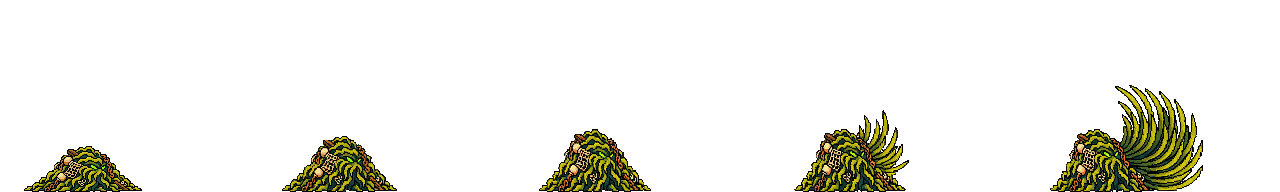
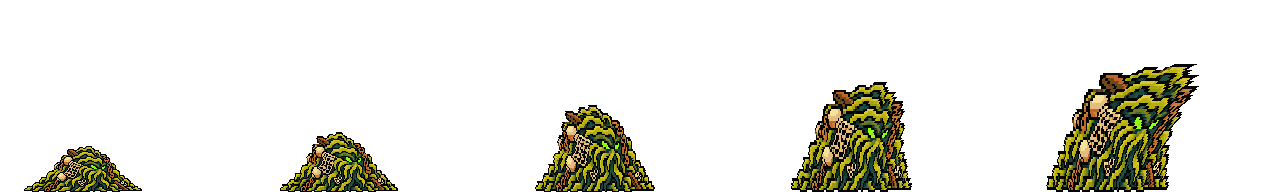
Sargathoth S1: rebuild Undertow as a breaking wave (rise, curl, crash) with a procedural strip tool
Claude-Session: https://claude.ai/code/session_01SJ9dCuwxi3nGmvpTpAhwdV

diff --git a/src/presentation.ts b/src/presentation.ts
@@ -940,7 +940,7 @@ export const SPRITES:Record<string,Form&{stages?:Record<number,Form>}>={
  'Sargathoth':{width:120,anims:{idle:{src:'assets/sargathoth-s1-idle.png',frames:8,fps:8,...SG1_NATIVE},walk:{src:'assets/sargathoth-s1-walk.png',frames:8,fps:10,...SG1_NATIVE},
   light1:{src:'assets/sargathoth-s1-light1.png',frames:8,fps:24,once:true,...SG1_LEFT},light2:{src:'assets/sargathoth-s1-light2.png',frames:8,fps:21,once:true,...SG1_LEFT},
   light3:{src:'assets/sargathoth-s1-light3.png',frames:8,fps:20,once:true,...SG1_LEFT},
-  // Undertow (heavy): the mound heaves up with a fan of fronds bunched on its right side, shudders while held, then slams down and throws debris.
+  // Undertow (heavy): the mound swells into a tall column whose crest curls forward (tools/sargathoth_s1_heavy.py), trembles while held, then topples and crashes flat like a breaking wave, spraying debris.
   heavyRear:{src:'assets/sargathoth-s1-heavy-rear.png',frames:5,fps:20,once:true,...SG1_LEFT},heavyHold:{src:'assets/sargathoth-s1-heavy-hold.png',frames:4,fps:10,...SG1_LEFT},
   heavySlam:{src:'assets/sargathoth-s1-heavy-slam.png',frames:9,fps:18,once:true,...SG1_LEFT}}},
 };

diff --git a/tools/sargathoth_s1_heavy.py b/tools/sargathoth_s1_heavy.py
@@ -1,0 +1,58 @@
+#!/usr/bin/env python3
+"""Build Sargathoth Stage 1's Undertow heavy strips (rear, hold, slam) as a breaking wave. Procedural like tools/sargathoth_s1_anim.py:
+every frame is an inverse-mapped nearest-neighbour warp of the halved base, so the palette and pixel grid never change.
+
+Usage: python3 -I tools/sargathoth_s1_heavy.py public/assets/sargathoth-s1.png out-dir [preview.gif]
+Writes out-dir/sargathoth-s1-heavy-{rear,hold,slam}.png (256x192 frames, 118px mound at x=24, feet on row 191: the SG1_LEFT layout).
+  rear: draws back (top leans left), then swells up into a tall column whose crest curls forward.
+  hold: the cresting wave hangs and trembles.
+  slam: the crest topples forward and crashes flat, spreading along the street, then rebounds and settles; debris sprays out.
+"""
+import sys, random, numpy as np
+from PIL import Image
+src, out = sys.argv[1], sys.argv[2]; FW, FH, W, X0 = 256, 192, 118, 24
+b = Image.open(src).convert('RGBA'); b = b.crop(b.getchannel('A').getbbox()); H0 = round(b.height * W / b.width)
+b = b.resize((W, H0), Image.NEAREST); base = np.zeros((FH, FW, 4), np.uint8); base[FH - H0:, X0:X0 + W] = np.asarray(b)
+solid = base[..., 3] > 0; pal = base[solid]; YY, XX = np.mgrid[0:FH, 0:FW]
+
+def warp(rise=1., lean=0., hook=0., stretch=1., taper=0., sink=0.):
+    """rise: vertical scale; lean: px the crest is pushed right (grows with height squared); hook: extra push on the top 40%;
+    stretch: horizontal scale from the left edge; taper: narrows the column with height; sink: px the whole body is dropped."""
+    hh = (FH - 1 - YY + sink) / rise; yf = hh / H0; ok = (yf >= 0) & (yf <= 1)
+    s = lean * yf ** 2 + hook * np.clip(yf - .6, 0, 1) ** 2 * 6
+    u = (XX - X0 - s) / stretch; c = W * .4; u = c + (u - c) * (1 + taper * yf)
+    sx = np.rint(X0 + u).astype(int); sy = np.rint(FH - 1 - hh).astype(int)
+    ok &= (sx >= 0) & (sx < FW) & (sy >= 0) & (sy < FH)
+    f = np.zeros_like(base); f[ok] = base[sy[ok], sx[ok]]; return f
+
+def spray(f, t, n, x, rng):
+    """Debris flecks thrown off the crash: t = frames since impact."""
+    for _ in range(n):
+        vx, vy = rng.uniform(1.5, 7), rng.uniform(5, 13); px = int(x + vx * t + rng.uniform(-4, 4)); py = int(FH - 6 - (vy * t - .9 * t * t))
+        if 0 <= px < FW - 1 and 0 <= py < FH - 1:
+            col = pal[rng.randrange(len(pal))]; f[py:py + 2, px:px + 2] = col
+
+def strip(frames, name):
+    im = Image.new('RGBA', (FW * len(frames), FH))
+    for n, f in enumerate(frames): im.paste(Image.fromarray(f), (n * FW, 0))
+    im.save(f'{out}/sargathoth-s1-heavy-{name}.png', optimize=True); return im
+
+# rear: coil back (top leans left), then rise into a column and curl the crest forward.
+rear = [warp(), warp(1.3, -8, 0, 1., -.1), warp(1.9, -16, 0, 1., -.3), warp(2.4, 2, .8, 1., -.55), warp(2.8, 22, 1.7, 1., -.75)]
+# hold: the crest hangs and trembles (the base crest jittering, feet planted).
+hold = [warp(2.8 + dr, 22 + dl, 1.7, 1. + ds, -.75) for dr, dl, ds in ((0, 0, 0), (.06, 3, .01), (0, 6, 0), (-.06, 3, -.01))]
+# slam: the crest topples forward over the base and crashes flat, then rebounds and settles.
+SL = [dict(rise=2.8, lean=30, hook=2., taper=-.75), dict(rise=2.1, lean=56, hook=2.4, stretch=1.1, taper=-.6), dict(rise=1.3, lean=72, hook=1.6, stretch=1.35, taper=-.3),
+      dict(rise=.6, lean=55, stretch=1.8), dict(rise=.42, lean=25, stretch=1.95), dict(rise=.7, lean=8, stretch=1.5, taper=.1), dict(rise=1.12, stretch=1.15, taper=0),
+      dict(rise=.93, stretch=1.02), dict()]
+rng = random.Random(7); slam = []
+for n, p in enumerate(SL):
+    f = warp(**p)
+    if 3 <= n <= 7: spray(f, n - 2, [16, 12, 8, 5, 3][n - 3], X0 + W * .9 + 50, rng)
+    slam.append(f)
+strip(rear, 'rear'); strip(hold, 'hold'); strip(slam, 'slam')
+if len(sys.argv) > 3:
+    seq = [(f, 50) for f in rear] + [(f, 100) for f in hold] * 3 + [(f, 56) for f in slam] + [(slam[-1], 500)]; fr = []
+    for f, d in seq:
+        bg = Image.new('RGBA', (FW, FH), (44, 48, 66, 255)); bg.alpha_composite(Image.fromarray(f)); fr.append(bg.crop((0, 20, FW, FH)).resize((FW * 4, (FH - 20) * 4), Image.NEAREST).convert('P', palette=Image.ADAPTIVE, colors=128))
+    fr[0].save(sys.argv[3], save_all=True, append_images=fr[1:], duration=[d for _, d in seq], loop=0, disposal=2)
